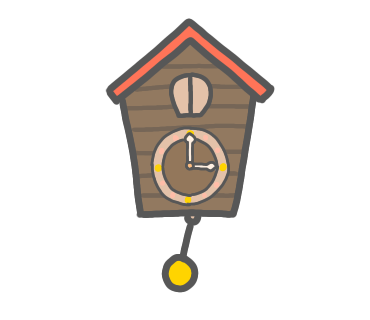
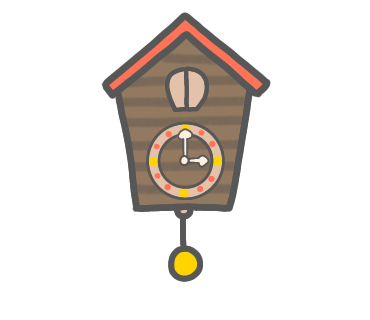
@

Changed region(s): [[0.2676, 0.0312, 0.7432, 0.9375]]

diff --git a/src/js/house.js b/src/js/house.js
@@ -82,53 +82,6 @@ contract ERC721 is IERC721 {
 
 //### 1st
 
-    時計の実装
-        nonceの数に応じて長針と短針を動かす
-        長針・短針をプログラムで動かす機構を実装する
-        
-    nuichanのitemIdの再実装検討
-        12種類の種類が設けられる場合、237-248を使用して別々のitemIdを当てたほうが良いか
-        あるいは, msnにtypeOfSourceパラメータを実装するか
-
-    nuiちゃんにclassパラメータを実装する
-        mcのmemoを使うか、storage_nuiに追加するか。
-        class値は合成元のfluffyのtypeを継承する
-        → memoを実装
-        classパラメータに応じてリボンの色を変える
-    
- ok fluffy houseの実装
-        fluffyとの接触処理
-        クリックでfluffyが飛び出してくる演出
-        くっついているfluffyの数に応じた段階絵
-
- ok fishbowlの実装
-        wallet ageに応じて成長させる
-
- ok fluffyのupgradeの実装
-        5アイテムのupgradeの実装
-
-    集計情報
-        ユーザー数
-        石化ユーザー数
-        await web3.eth.getBalance(contract_bt.options.address) 
-        await web3.eth.getBalance(contract_bv.options.address) 
-        await web3.eth.getBalance(address_Staking_Wallet) 
-
-    バイバックコントラクトのテスト
-        バイバックのテスト
-        bufferVaultの挙動テスト
-
-    wallet反映アイテムの実装
-        age反映アイテム：
-            なに？
-            → 金魚鉢
-        nonce反映アイテム：
-            時計の針を進める？
-            → 時計
-
-    クレヨンの実装
-        クレヨンクラフト後に実績落書きが表示されるように実装する
-
     バグ・仕様修正
      ok fluffyが空を飛ぶバグ
         crafting pause中にminingすると表示が変になるバグ
@@ -161,16 +114,6 @@ contract ERC721 is IERC721 {
         working textがiPad OFFで表示されることの修正
         crafting windowのflower 位置、nyuinyuiのy軸、説明文位置の修正
 
-    Travel of Murasaki-Sanの構想案
-        旅の目的は？
-            宝物SBTもしくはNFTの取得
-            どこに行ったかのスタンプのようなものなので、SBTのほうが良いだろうか
-        旅報酬を受け取る条件は？
-            特定の座標？
-            移動距離に応じて確率が上がるランダム取得？
-        旅報酬のユースケースは？
-            移動効率アップ
-
     coin/material per dayの正確な計算
         拡大再生産を実感できるように
     
@@ -184,6 +127,42 @@ contract ERC721 is IERC721 {
      ok crafting中にリロードするとアイテム名が表示されないバグの修正
             summoner modeを先にcraftingに設定しているのでsetTextが読み込まれていない
             構造修正が多少必要
+
+
+    nuichanのitemIdの再実装検討
+        12種類の種類が設けられる場合、237-248を使用して別々のitemIdを当てたほうが良いか
+        あるいは, msnにtypeOfSourceパラメータを実装するか
+
+    nuiちゃんにclassパラメータを実装する
+        mcのmemoを使うか、storage_nuiに追加するか。
+        class値は合成元のfluffyのtypeを継承する
+        → memoを実装
+        classパラメータに応じてリボンの色を変える
+    
+    集計情報
+        ユーザー数
+        石化ユーザー数
+        await web3.eth.getBalance(contract_bt.options.address) 
+        await web3.eth.getBalance(contract_bv.options.address) 
+        await web3.eth.getBalance(address_Staking_Wallet) 
+
+    バイバックコントラクトのテスト
+        バイバックのテスト
+        bufferVaultの挙動テスト
+
+    クレヨンの実装
+        クレヨンクラフト後に実績落書きが表示されるように実装する
+        アイテム順を再考する
+
+    Travel of Murasaki-Sanの構想案
+        旅の目的は？
+            宝物SBTもしくはNFTの取得
+            どこに行ったかのスタンプのようなものなので、SBTのほうが良いだろうか
+        旅報酬を受け取る条件は？
+            特定の座標？
+            移動距離に応じて確率が上がるランダム取得？
+        旅報酬のユースケースは？
+            移動効率アップ
 
     NFTの希少性の深慮
         NFTの希少性について考える
@@ -510,6 +489,29 @@ contract ERC721 is IERC721 {
 
 
 //### 2nd
+
+ ok wallet反映アイテムの実装
+        age反映アイテム：
+            なに？
+            → 金魚鉢
+        nonce反映アイテム：
+            時計の針を進める？
+            → 時計
+
+ ok 時計の実装
+        nonceの数に応じて長針と短針を動かす
+        長針・短針をプログラムで動かす機構を実装する
+        
+ ok fluffy houseの実装
+        fluffyとの接触処理
+        クリックでfluffyが飛び出してくる演出
+        くっついているfluffyの数に応じた段階絵
+
+ ok fishbowlの実装
+        wallet ageに応じて成長させる
+
+ ok fluffyのupgradeの実装
+        5アイテムのupgradeの実装
 
  ok バイバックコントラの洗練
        *アクティブユーザーのカウント方法の深慮
@@ -1203,6 +1205,7 @@ async function init_global_variants() {
     local_crafting_resume_item_dc = 0;   
     local_total_staking_reward_counter = 0;
     local_achv = new Array(32).fill(false);
+    local_nonce = 0;
 
     //---local festival
     local_ff_each_voting_count = new Array(256).fill(0);
@@ -1700,7 +1703,10 @@ async function contract_update_dynamic_status(_summoner) {
 
     //wallet
     local_wallet = wallet;
-    
+
+    //call and update nonce
+    update_nonce(local_wallet);
+        
     //blocknumber
     local_blockNumber = Number(_all_dynamic_status[0]);
     
@@ -2100,7 +2106,12 @@ async function contract_update_summoner_of_wallet() {
 async function contract_get_nonce(_wallet_address) {
     //let _nonce = await web3.eth.getTransactionCount(_wallet_address);
     let _nonce = await web3wss.eth.getTransactionCount(_wallet_address);
-    return _nonce;
+    return Number(_nonce);
+}
+
+//update nonce
+async function update_nonce(wallet_address) {
+    local_nonce = await contract_get_nonce(wallet_address);
 }
 
 //get wallet month age
@@ -2133,6 +2144,7 @@ async function contract_get_age(_wallet_address) {
 //12step = <300, <600, <900, <1200, <1500, <1800, <2100, <2400, <2700, <3000, <3300, 3300<=
 async function calc_wallet_score(wallet_address) {
     let _nonce = await contract_get_nonce(wallet_address);
+    local_nonce = _nonce;
     let _age = await contract_get_age(wallet_address); //mo
     let _scoreMax = _age * 150; // 5tx/day, 150tx/mo
     let _score = _nonce;
@@ -7134,8 +7146,8 @@ function preload(scene) {
     scene.load.image("item_rugg", "src/png/item_rugg.png");
     scene.load.image("item_piano", "src/png/item_piano.png");
     scene.load.image("item_piano_opened", "src/png/item_piano_opened.png");
-    scene.load.image("item_clock", "src/png/item_clock.png");
-    scene.load.image("item_clock_opened", "src/png/item_clock_opened.png");
+    //scene.load.image("item_clock", "src/png/item_clock.png");
+    //scene.load.image("item_clock_opened", "src/png/item_clock_opened.png");
     scene.load.spritesheet("item_clock_anim", "src/png/item_clock_anim.png", {frameWidth: 370, frameHeight: 320});
     scene.load.image("item_window_day", "src/png/item_window_day.png");
     scene.load.image("item_window_day_closed", "src/png/item_window_day_closed.png");
@@ -7171,6 +7183,7 @@ function preload(scene) {
     //scene.load.image("ff_report", "src/png/ff_report.png");
     //scene.load.image("ff_report_final", "src/png/ff_report.png");
     scene.load.spritesheet("ff_reports", "src/png/ff_reports.png", {frameWidth: 615, frameHeight: 693});
+    scene.load.spritesheet("item_clock", "src/png/item_clock_list.png", {frameWidth: 370, frameHeight: 320});
 
     //---nyui
     scene.load.spritesheet("nyui_moving", "src/png/nyui_moving.png", {frameWidth: 370, frameHeight: 320});
@@ -7616,10 +7629,11 @@ function create(scene) {
     });
     scene.anims.create({
         key: "item_clock_anim_1",
-        frames: scene.anims.generateFrameNumbers("item_clock_anim", {start:1, end:0}),
+        frames: scene.anims.generateFrameNumbers("item_clock", {frames:[4, 3, 4, 3, 2]}),
         frameRate: 1,
         repeat: 0
     });
+    /*
     scene.anims.create({
         key: "item_clock_anim_2",
         frames: scene.anims.generateFrameNumbers("item_clock_anim", {start:1, end:0}),
@@ -7632,6 +7646,7 @@ function create(scene) {
         frameRate: 1,
         repeat: 2
     });
+    */
     scene.anims.create({
         key: "item_fishbowl_1",
         frames: scene.anims.generateFrameNumbers("item_fishbowl_list", {start:0, end:1}),
@@ -11377,21 +11392,24 @@ function update_checkItem(this_scene) {
         let _x = 990;
         let _y = 180;
         item_clock = this_scene.add.sprite(_x, _y, "item_clock")
+            .setFrame(2)
             .setScale(0.45)
             .setOrigin(0.5)
             .setDepth(2)
             .setInteractive({useHandCursor: true})
             .on('pointerdown', () => {
+                /*
                 //1 times
                 item_clock.anims.play("item_clock_anim_1");
                 sound_clock.play();
-                /*
+                */
                 //2 times
-                item_clock.anims.play("item_clock_anim_3");
+                item_clock.anims.play("item_clock_anim_1");
                 sound_clock.play();
                 setTimeout( () => {
                     sound_clock.play();
                 }, 2000);
+                /*
                 //3 times
                 item_clock.anims.play("item_clock_anim_3");
                 sound_clock.play();
@@ -11407,6 +11425,16 @@ function update_checkItem(this_scene) {
         if (local_items[_item_id+64] != 0) {
             draw_glitter(this_scene, item_clock);
         }
+        item_clock_short = this_scene.add.sprite(_x, _y, "item_clock")
+            .setFrame(1)
+            .setScale(0.45)
+            .setOrigin(0.5)
+            .setDepth(2);
+        item_clock_long = this_scene.add.sprite(_x, _y, "item_clock")
+            .setFrame(0)
+            .setScale(0.45)
+            .setOrigin(0.5)
+            .setDepth(2);
     } else if (
         local_items[_item_id] == 0 
         && local_items[_item_id+64] == 0 
@@ -11414,7 +11442,15 @@ function update_checkItem(this_scene) {
         && typeof item_clock != "undefined"
     ) {
         item_clock.destroy(true);
+        item_clock_long.destroy(true);
+        item_clock_short.destroy(true);
         local_items_flag[_item_id] = false;
+    }
+    //after craft
+    if (local_items_flag[_item_id] == true) {
+        let _min = local_nonce % 1440;
+        item_clock_short.setAngle(_min *0.5);
+        item_clock_long.setAngle(_min *6);
     }
     
     //###24:Fluffy House
